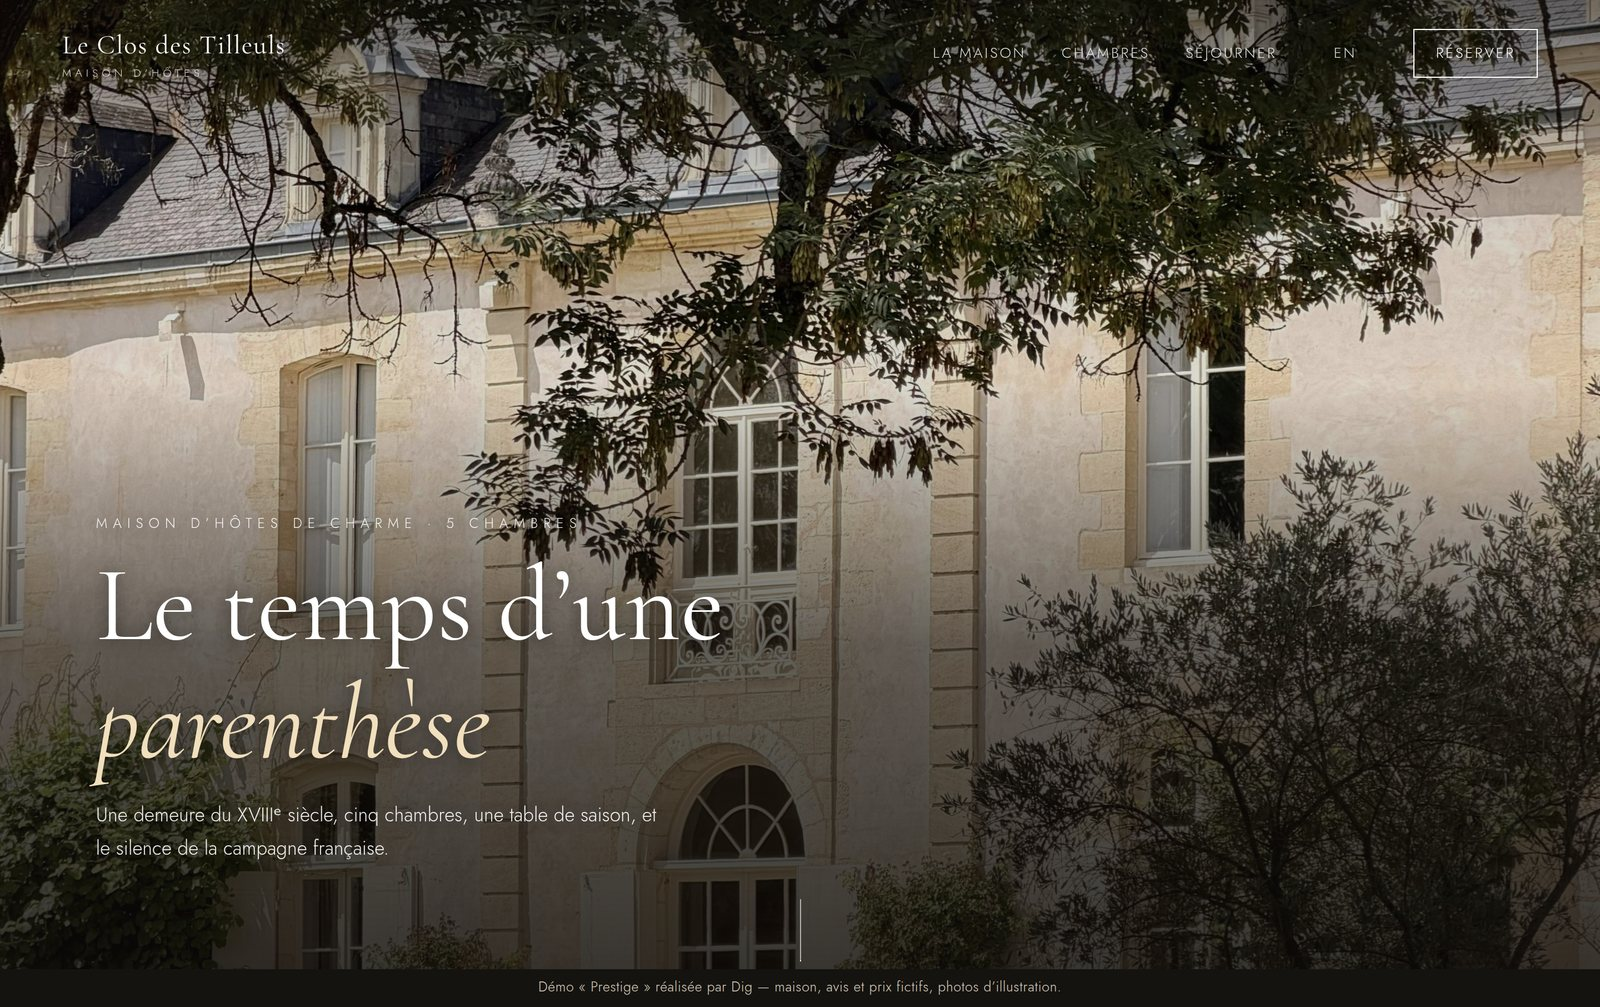
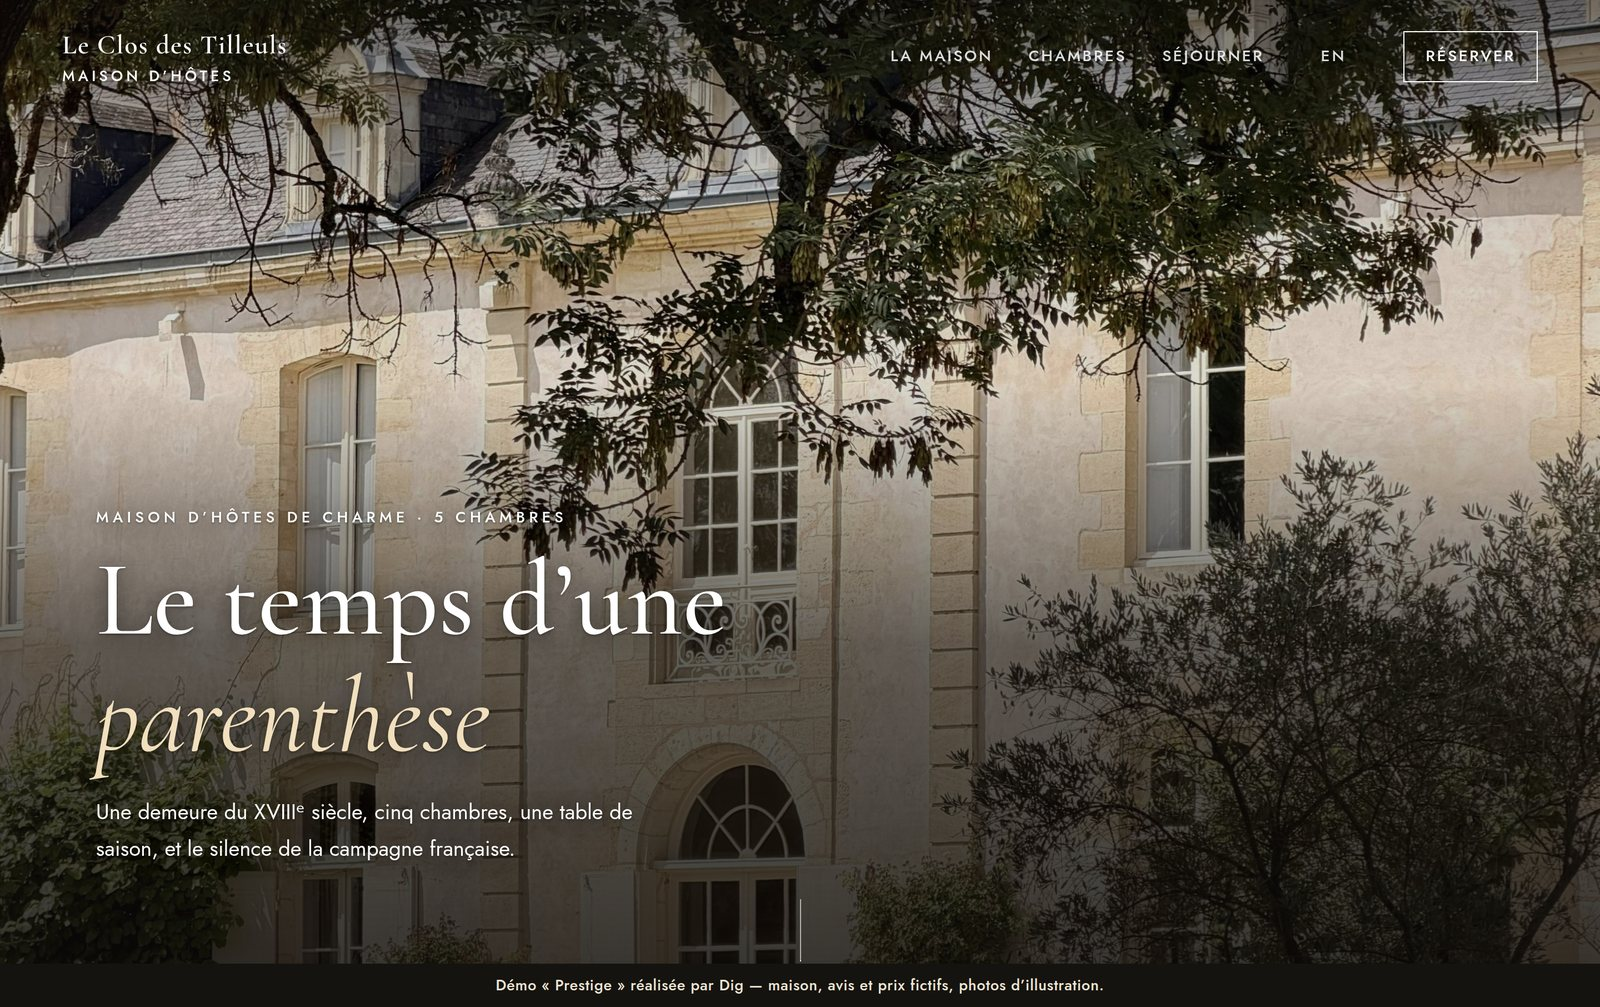
Lisibilité : typographie plus épaisse et plus grande, contrastes conformes (démo Prestige et site)
- démo Prestige : Jost 400 au lieu de 300, textes agrandis, ombres sous les textes sur photo
- site : orange foncé sur fond clair, boutons plus contrastés, libellés agrandis, menu sur une ligne
- outils/lisibilite.py : mesure taille, graisse et contraste de chaque texte
- 44-controle-qualite.md : contrôle de lisibilité ajouté

Claude-Session: https://claude.ai/code/session_01HXUPij67xudweYwrEb9uHq

diff --git a/ai-business-lab/chasse-demande/outils/relais-vercel/api/video.js b/ai-business-lab/chasse-demande/outils/relais-vercel/api/video.js
@@ -6,6 +6,14 @@
 // Déploiement protégé (Vercel Authentication) : appel via le connecteur Vercel.
 import { generateText } from 'ai';
 
+const CONSIGNES = {};
+CONSIGNES.finance =
+  "Résume cette vidéo en français, comme une fiche de connaissances en finances personnelles. Donne : " +
+  "1) le sujet et la thèse principale ; 2) les notions expliquées (définitions simples) ; 3) les chiffres, " +
+  "taux, plafonds et règles fiscales cités, avec l'année ou la date si elle est dite (marque « à vérifier " +
+  "à la source officielle » pour toute règle fiscale ou légale) ; 4) les conseils concrets et leurs limites " +
+  "ou risques ; 5) les produits, applications ou entreprises cités, en signalant s'il s'agit de publicité " +
+  "ou de produits de l'auteur. N'invente rien : si un détail n'est pas clair, écris « non précisé ».";
 const CONSIGNE =
   "Résume cette vidéo en français, pour quelqu'un qui cherche à gagner de l'argent " +
   "légalement avec l'IA et Claude Code. Donne : 1) l'idée principale ; 2) chaque outil, " +
@@ -27,6 +35,9 @@ export async function GET(request) {
   if (!/^[A-Za-z0-9_-]{11}$/.test(id)) {
     return Response.json({ erreur: 'identifiant vidéo invalide' }, { status: 400 });
   }
+  const mode = new URL(request.url).searchParams.get('mode') || '';
+  const consigne = CONSIGNES[mode] || CONSIGNE;
+  const debug = new URL(request.url).searchParams.get('debug') === '1';
   const cle = process.env.GEMINI_API_KEY;
   if (cle) {
     const url = `https://www.youtube.com/watch?v=${id}`;
@@ -37,7 +48,7 @@ export async function GET(request) {
         const rep = await fetch('https://generativelanguage.googleapis.com/v1beta/interactions', {
           method: 'POST',
           headers: { 'x-goog-api-key': cle, 'Content-Type': 'application/json' },
-          body: JSON.stringify({ model: modele, input: [{ type: 'text', text: CONSIGNE }, { type: 'video', uri: url }] }),
+          body: JSON.stringify({ model: modele, input: [{ type: 'text', text: consigne }, { type: 'video', uri: url }] }),
         });
         const j = await rep.json();
         // Le texte peut être dans output_text ou dans outputs[] (objets imbriqués) : on le cherche partout.
@@ -50,6 +61,7 @@ export async function GET(request) {
         parcourir({ output_text: j.output_text, outputs: j.outputs, output: j.output }, '');
         const texte = [...new Set(morceaux)].join('\n').trim();
         if (rep.ok && texte) return Response.json({ id, resume: texte, modele, voie: 'interactions' });
+        if (debug) { const { usage, ...reste } = j; return Response.json({ id, debug: JSON.stringify(reste).slice(0, 4000) }); }
         erreurs.push(`${modele} interactions ${rep.status} ${JSON.stringify(j).slice(0, 200)}`);
       } catch (e) { erreurs.push(`${modele} interactions ${String(e).slice(0, 120)}`); }
       // API classique generateContent
@@ -57,7 +69,7 @@ export async function GET(request) {
         const rep = await fetch(`https://generativelanguage.googleapis.com/v1beta/models/${modele}:generateContent`, {
           method: 'POST',
           headers: { 'x-goog-api-key': cle, 'Content-Type': 'application/json' },
-          body: JSON.stringify({ contents: [{ parts: [{ file_data: { file_uri: url } }, { text: CONSIGNE }] }] }),
+          body: JSON.stringify({ contents: [{ parts: [{ file_data: { file_uri: url } }, { text: consigne }] }] }),
         });
         const j = await rep.json();
         const texte = ((j.candidates || [])[0]?.content?.parts || []).map(p => p.text || '').join('').trim();
@@ -74,7 +86,7 @@ export async function GET(request) {
         role: 'user',
         content: [
           { type: 'file', data: new URL(`https://www.youtube.com/watch?v=${id}`), mediaType: 'video/mp4' },
-          { type: 'text', text: CONSIGNE },
+          { type: 'text', text: consigne },
         ],
       }],
     });

diff --git a/ai-business-lab/chasse-demande/site-dig/index.html b/ai-business-lab/chasse-demande/site-dig/index.html
@@ -163,6 +163,24 @@ footer .cadre{display:flex;justify-content:space-between;gap:1rem;flex-wrap:wrap
  .mobile-cta.cache{opacity:0;transform:translateY(24px);pointer-events:none}
 }
 @media (max-width:560px){.options span{border-radius:14px;width:100%;text-align:left}.prix,.g4{grid-template-columns:1fr}.confiance{gap:1rem}}
+
+/* lisibilité (révision du 26/09) : tailles minimales et contrastes conformes */
+.pastille{font-size:.86rem}
+.logo small{font-size:.8rem;letter-spacing:.14em;color:#c9cfe6}
+.titre .sur,.formule .nom,.tarif .nom{font-size:.86rem}
+.clair .titre .sur,.clair .formule:not(.vedette) .nom,.clair .tarif .nom,.clair .sur{color:#b4460f}
+.btn.principal,.badge{background:linear-gradient(135deg,#c24a12,#b8325a)}
+.badge{font-size:.82rem}
+.comparatif th{font-size:.82rem;color:#4a4752}
+.logo small{font-size:.84rem}
+.demo a{color:#b4460f}
+.clair .faq h3,.faq h3{color:#b4460f}
+.coord small{font-size:.84rem}
+.rgpd{font-size:.88rem}
+.logo small{white-space:nowrap;letter-spacing:.08em}
+.liens .btn{white-space:nowrap}
+@media (max-width:420px){.liens .btn{padding:.7rem .95rem;font-size:.92rem}.logo b{font-size:1.35rem}}
+@media (max-width:350px){.logo small{font-size:.74rem;letter-spacing:.04em}.liens .btn{padding:.65rem .75rem;font-size:.86rem}}
 </style>
 </head>
 <body>
@@ -226,7 +244,7 @@ footer .cadre{display:flex;justify-content:space-between;gap:1rem;flex-wrap:wrap
    <ul><li>Site 5 pages livré</li><li>À vous pour toujours</li><li>Hébergement et suivi : 15 €/mois, facultatif</li><li>Fichiers remis sur demande</li></ul><a href="#contact" class="btn second" style="color:var(--texte);border-color:#ddd">Choisir Achat</a></div>
  </div>
  <div class="options apparait"><span>📅 <b>Réservation en ligne incluse</b>&nbsp;: vos clients réservent un créneau directement sur votre site</span><span>🇬🇧 <b>Version anglaise</b>&nbsp;: +5&nbsp;€/mois</span><span>🔄 <b>Vous changez de prestataire&nbsp;?</b> Je m’occupe du transfert, sans coupure&nbsp;: offert</span></div>
- <div class="prestige apparait"><div><div class="sur" style="color:var(--orange);font-size:.8rem;font-weight:700;letter-spacing:.2em;text-transform:uppercase">Prestige</div><h3 class="serif" style="font-size:1.9rem;margin:.4rem 0">Pour les maisons d’exception</h3><p>Hôtels, restaurants, domaines, artisans d’art&nbsp;: un site entièrement sur mesure, photos plein écran, version anglaise et réservation incluses. <b style="color:#fff">1&nbsp;990&nbsp;€ une fois, ou 199&nbsp;€/mois sans frais de création.</b></p></div><a href="prestige.html" class="btn principal">Découvrir Prestige</a></div>
+ <div class="prestige apparait"><div><div class="sur" style="color:var(--orange);font-size:.86rem;font-weight:700;letter-spacing:.2em;text-transform:uppercase">Prestige</div><h3 class="serif" style="font-size:1.9rem;margin:.4rem 0">Pour les maisons d’exception</h3><p>Hôtels, restaurants, domaines, artisans d’art&nbsp;: un site entièrement sur mesure, photos plein écran, version anglaise et réservation incluses. <b style="color:#fff">1&nbsp;990&nbsp;€ une fois, ou 199&nbsp;€/mois sans frais de création.</b></p></div><a href="prestige.html" class="btn principal">Découvrir Prestige</a></div>
  <p class="note">Prix nets : TVA non applicable, art. 293 B du CGI. Nom de domaine au nom du client, à sa charge (environ 10 € par an). Les formules mensuelles comportent un engagement minimal de 6 mois (12 mois pour Prestige).</p>
 </div></section>
 

diff --git a/ai-business-lab/chasse-demande/outils/relais-vercel/api/chaine.js b/ai-business-lab/chasse-demande/outils/relais-vercel/api/chaine.js
@@ -1,0 +1,51 @@
+// Liste toutes les vidéos publiques d'une chaîne YouTube (identifiant, titre,
+// durée), depuis Vercel car YouTube bloque les conteneurs cloud de Claude Code.
+// Paramètre ?chaine=@nom. Pages suivantes via l'API interne « browse » de YouTube.
+
+function adresseProtegee(request) {
+  const hote = new URL(request.url).hostname;
+  return hote.endsWith('-justok1.vercel.app');
+}
+
+const UA = { 'User-Agent': 'Mozilla/5.0', 'Accept-Language': 'fr-FR,fr;q=0.9' };
+
+function extraire(obj, videos, suite) {
+  if (Array.isArray(obj)) { obj.forEach((x) => extraire(x, videos, suite)); return; }
+  if (!obj || typeof obj !== 'object') return;
+  const v = obj.playlistVideoRenderer || obj.videoRenderer;
+  if (v && v.videoId) {
+    const titre = (v.title && (v.title.simpleText || (v.title.runs || []).map((r) => r.text).join(''))) || '';
+    const duree = (v.lengthText && (v.lengthText.simpleText || (v.lengthText.runs || []).map((r) => r.text).join(''))) || v.lengthSeconds || '';
+    videos.push({ id: v.videoId, titre, duree });
+  }
+  if (obj.continuationCommand && obj.continuationCommand.token) suite.push(obj.continuationCommand.token);
+  for (const x of Object.values(obj)) extraire(x, videos, suite);
+}
+
+export async function GET(request) {
+  if (!adresseProtegee(request)) return new Response('Accès refusé', { status: 403 });
+  const chaine = new URL(request.url).searchParams.get('chaine') || '';
+  if (!/^@[A-Za-z0-9._-]{2,60}$/.test(chaine)) return Response.json({ erreur: 'chaîne invalide' }, { status: 400 });
+  const page = await (await fetch(`https://www.youtube.com/${chaine}/videos?hl=fr`, { headers: UA })).text();
+  const idChaine = (page.match(/"externalId":"(UC[A-Za-z0-9_-]{22})"/) || [])[1];
+  const cleApi = (page.match(/"INNERTUBE_API_KEY":"([^"]+)"/) || [])[1];
+  const version = (page.match(/"INNERTUBE_CLIENT_VERSION":"([^"]+)"/) || [])[1] || '2.20260901.00.00';
+  if (!idChaine) return Response.json({ erreur: 'identifiant de chaîne introuvable', debut: page.slice(0, 300) }, { status: 502 });
+  const liste = 'UU' + idChaine.slice(2);
+  const html = await (await fetch(`https://www.youtube.com/playlist?list=${liste}&hl=fr`, { headers: UA })).text();
+  const m = html.match(/var ytInitialData = (\{.*?\});<\/script>/s);
+  const videos = []; let suite = [];
+  if (m) extraire(JSON.parse(m[1]), videos, suite);
+  let tours = 0;
+  while (suite.length && tours < 60 && cleApi) {
+    const jeton = suite.shift(); tours++;
+    const r = await fetch(`https://www.youtube.com/youtubei/v1/browse?key=${cleApi}&prettyPrint=false`, {
+      method: 'POST', headers: { ...UA, 'Content-Type': 'application/json' },
+      body: JSON.stringify({ context: { client: { clientName: 'WEB', clientVersion: version, hl: 'fr' } }, continuation: jeton }),
+    });
+    const j = await r.json(); const nouvelles = [];
+    extraire(j, videos, nouvelles); suite = nouvelles;
+  }
+  const vus = new Set(); const uniques = videos.filter((v) => !vus.has(v.id) && vus.add(v.id));
+  return Response.json({ chaine, idChaine, nombre: uniques.length, pages: tours + 1, videos: uniques });
+}

diff --git a/ai-business-lab/chasse-demande/site-dig/demos/prestige/index.html b/ai-business-lab/chasse-demande/site-dig/demos/prestige/index.html
@@ -7,12 +7,12 @@
 <meta name="description" content="Démonstration Dig « Prestige » : maison d'hôtes de charme fictive.">
 <meta name="robots" content="noindex">
 <link rel="preconnect" href="https://fonts.googleapis.com">
-<link href="https://fonts.googleapis.com/css2?family=Cormorant+Garamond:ital,wght@0,400;0,500;0,600;1,400&family=Jost:wght@300;400;500&display=swap" rel="stylesheet">
+<link href="https://fonts.googleapis.com/css2?family=Cormorant+Garamond:ital,wght@0,400;0,500;0,600;1,400&family=Jost:wght@400;500;600&display=swap" rel="stylesheet">
 <style>
-:root{--creme:#f6f1e9;--pierre:#e9e0d2;--encre:#26231f;--doux:#6b645a;--sauge:#6f7f68;--or:#b08d57;--nuit:#15130f}
+:root{--creme:#f6f1e9;--pierre:#e9e0d2;--encre:#26231f;--doux:#595349;--sauge:#566650;--or:#b08d57;--nuit:#15130f}
 *{box-sizing:border-box;margin:0;padding:0}
 html{scroll-behavior:smooth}
-body{font-family:Jost,system-ui,sans-serif;font-weight:300;background:var(--creme);color:var(--encre);line-height:1.7;overflow-x:hidden}
+body{font-family:Jost,system-ui,sans-serif;font-weight:400;font-size:1.0625rem;background:var(--creme);color:var(--encre);line-height:1.7;overflow-x:hidden}
 h1,h2,h3,.serif{font-family:"Cormorant Garamond",Georgia,serif;font-weight:500;line-height:1.1}
 a{color:inherit;text-decoration:none}
 img{display:block;width:100%;height:100%;object-fit:cover}
@@ -110,6 +110,34 @@ footer{background:var(--nuit);color:#8d8474;border-top:1px solid rgba(255,255,25
  .heros .texte{bottom:calc(9vh + 44px)}
  .fleche{display:none}
 }
+
+/* lisibilité (révision du 26/09) : textes plus épais, plus grands, mieux contrastés */
+.bandeau{font-size:.85rem;font-weight:500;color:#efe6d6;padding:.5rem 1rem}
+.marque{font-weight:600}
+.marque small{font-size:.84rem;font-weight:500;letter-spacing:.22em;opacity:1}
+.liste .n{color:#86652f}
+.liens{font-size:.88rem;font-weight:500;letter-spacing:.12em}
+.sur{font-size:.85rem;font-weight:500;letter-spacing:.26em;opacity:1}
+.heros h1{font-weight:500}
+.heros p{font-size:1.2rem;font-weight:400;opacity:1}
+.heros .texte{text-shadow:0 1px 2px rgba(0,0,0,.35),0 2px 18px rgba(0,0,0,.55)}
+nav:not(.plein){text-shadow:0 1px 2px rgba(0,0,0,.4),0 2px 16px rgba(0,0,0,.5)}
+.intro p,.titre p{font-size:1.08rem}
+.chiffres span{font-size:.82rem;font-weight:500}
+.chambre .info{font-size:.98rem}
+.bande blockquote{font-weight:500;text-shadow:0 2px 18px rgba(0,0,0,.45)}
+.bande cite{font-size:.85rem;font-weight:500;opacity:1}
+.liste p{font-size:1rem}
+label{font-size:.85rem;font-weight:500;color:#d8cdb9}
+button{font-size:.88rem;font-weight:600}
+.note{font-size:.92rem}
+footer{font-size:.9rem;color:#b3a996}
+@media (max-width:560px){
+ .heros .sur{font-size:.85rem;letter-spacing:.1em}
+ .heros p{font-size:1.08rem}
+ .marque small{font-size:.82rem;letter-spacing:.14em;white-space:nowrap}
+}
+@media (max-width:370px),(max-height:700px){.marque small{font-size:.82rem;letter-spacing:.08em}.heros p{font-size:1.02rem}}
 </style>
 </head>
 <body>

diff --git a/ai-business-lab/chasse-demande/site-dig/prestige.html b/ai-business-lab/chasse-demande/site-dig/prestige.html
@@ -203,6 +203,24 @@ footer .cadre{display:flex;justify-content:space-between;gap:1rem;flex-wrap:wrap
 .pfin h2{font-size:clamp(2rem,4vw,3rem);margin:.6rem 0 1rem}
 @media (max-width:900px){.inclus{grid-template-columns:minmax(0,1fr) minmax(0,1fr)}.etapes4{grid-template-columns:minmax(0,1fr) minmax(0,1fr)}.vitrine{grid-template-columns:minmax(0,1fr)}}
 @media (max-width:640px){.tarifs,.inclus,.etapes4{grid-template-columns:minmax(0,1fr)}.pheros{min-height:auto;padding-top:120px}.comparatif{font-size:.9rem}.comparatif th,.comparatif td{padding:11px 10px}}
+
+/* lisibilité (révision du 26/09) : tailles minimales et contrastes conformes */
+.pastille{font-size:.86rem}
+.logo small{font-size:.8rem;letter-spacing:.14em;color:#c9cfe6}
+.titre .sur,.formule .nom,.tarif .nom{font-size:.86rem}
+.clair .titre .sur,.clair .formule:not(.vedette) .nom,.clair .tarif .nom,.clair .sur{color:#b4460f}
+.btn.principal,.badge{background:linear-gradient(135deg,#c24a12,#b8325a)}
+.badge{font-size:.82rem}
+.comparatif th{font-size:.82rem;color:#4a4752}
+.logo small{font-size:.84rem}
+.demo a{color:#b4460f}
+.clair .faq h3,.faq h3{color:#b4460f}
+.coord small{font-size:.84rem}
+.rgpd{font-size:.88rem}
+.logo small{white-space:nowrap;letter-spacing:.08em}
+.liens .btn{white-space:nowrap}
+@media (max-width:420px){.liens .btn{padding:.7rem .95rem;font-size:.92rem}.logo b{font-size:1.35rem}}
+@media (max-width:350px){.logo small{font-size:.74rem;letter-spacing:.04em}.liens .btn{padding:.65rem .75rem;font-size:.86rem}}
 </style>
 </head>
 <body>

diff --git a/ai-business-lab/chasse-demande/outils/lisibilite.py b/ai-business-lab/chasse-demande/outils/lisibilite.py
@@ -1,0 +1,20 @@
+# Mesure la lisibilité de chaque texte visible : taille >= 13 px, graisse >= 400, contraste >= 4,5 (3 si >= 24 px),
+# ombre portée pour les textes posés sur photo. Usage : python3 lisibilite.py page.html [".selecteur-photo"]
+import os,sys
+from playwright.sync_api import sync_playwright
+JS="""(PHOTO)=>{function lum(c){const m=c.match(/[\\d.]+/g).map(Number);const [r,g,b]=m.slice(0,3).map(v=>{v/=255;return v<=0.03928?v/12.92:Math.pow((v+0.055)/1.055,2.4)});return 0.2126*r+0.7152*g+0.0722*b}
+function bg(e){while(e){const c=getComputedStyle(e);if(c.backgroundImage!=='none'&&!c.backgroundImage.includes('gradient'))return null;const m=c.backgroundColor.match(/[\\d.]+/g);if(m&&(m.length<4||+m[3]>0.9))return c.backgroundColor;e=e.parentElement}return 'rgb(255,255,255)'}
+const out=[];const w=document.createTreeWalker(document.body,NodeFilter.SHOW_TEXT);let n;
+while(n=w.nextNode()){const t=n.textContent.trim();if(!t)continue;const e=n.parentElement;const cs=getComputedStyle(e);if(cs.display==='none'||cs.visibility==='hidden')continue;const r=e.getBoundingClientRect();if(!r.width)continue;
+const fs=parseFloat(cs.fontSize),fw=parseInt(cs.fontWeight);const surPhoto=PHOTO?(!!e.closest(PHOTO)||!!e.closest('nav:not(.plein)')):false;const b=surPhoto?null:bg(e);let ct=null;
+if(b){const L1=lum(cs.color),L2=lum(b);ct=(Math.max(L1,L2)+0.05)/(Math.min(L1,L2)+0.05)}
+const pb=[];if(fs<13)pb.push('taille '+fs);if(fw<400)pb.push('graisse '+fw);if(ct!==null&&ct<(fs>=24?3:4.5))pb.push('contraste '+ct.toFixed(2));if(surPhoto&&cs.textShadow==='none')pb.push('sans ombre sur photo');
+if(pb.length)out.push([t.slice(0,40),pb.join(', ')])}
+return out}"""
+with sync_playwright() as p:
+    b=p.chromium.launch(executable_path='/opt/pw-browsers/chromium')
+    for w,h in [(320,640),(390,844),(1440,900)]:
+        pg=b.new_page(viewport={'width':w,'height':h});pg.goto('file://'+os.path.abspath(sys.argv[1]));pg.wait_for_timeout(1200)
+        pg.evaluate("document.querySelectorAll('.apparait').forEach(e=>e.classList.add('vu'))");pg.wait_for_timeout(900)
+        r=pg.evaluate(JS,sys.argv[2] if len(sys.argv)>2 else '');print(w,len(r));[print('  ',x) for x in r[:25]];pg.close()
+    b.close()

diff --git a/ai-business-lab/chasse-demande/outils/qa_site.py b/ai-business-lab/chasse-demande/outils/qa_site.py
@@ -1,0 +1,22 @@
+import os,sys
+from playwright.sync_api import sync_playwright
+JS="""()=>{const b=document.getElementById('barre');const cs=b?getComputedStyle(b):null;const vis=!!b&&cs.display!=='none'&&!b.classList.contains('cache');
+const br=b?b.getBoundingClientRect():{top:0,bottom:0};const pb=[];
+const tgt=[...document.querySelectorAll('#cta-haut,#form input,#form select,#form textarea,#form button')];
+if(vis){for(const t of tgt){const r=t.getBoundingClientRect();if(r.bottom>br.top&&r.top<br.bottom&&r.bottom>0&&r.top<innerHeight)pb.push(t.name||t.id||t.tagName)}}
+const over=document.documentElement.scrollWidth>innerWidth+1;
+const liens=[...document.querySelectorAll('a[href^="tel:"],a[href^="mailto:"]')].filter(a=>getComputedStyle(a).display!=='none'&&a.getAttribute('href').includes('[')).length;
+const crochets=document.body.innerText.match(/\\[[^\\]]{2,40}\\]/g);
+return {vis,pb,over,liens,crochets}}"""
+bad=0;n=0
+with sync_playwright() as p:
+    b=p.chromium.launch(executable_path='/opt/pw-browsers/chromium')
+    for w,h in [(320,568),(360,740),(390,844),(414,896),(768,1024),(1024,768),(1440,900)]:
+        pg=b.new_page(viewport={'width':w,'height':h});pg.goto('file://'+os.path.abspath(sys.argv[1]));pg.wait_for_timeout(1200)
+        H=pg.evaluate('document.documentElement.scrollHeight')
+        for y in list(range(0,H,150))+[H]:
+            pg.evaluate(f'window.scrollTo(0,{y})');pg.wait_for_timeout(120);m=pg.evaluate(JS);n+=1
+            if m['pb'] or m['over'] or m['liens'] or m['crochets'] or (w>820 and m['vis']): bad+=1;print(w,y,m) if bad<15 else None
+        pg.close()
+    b.close()
+print('états testés',n,'problèmes',bad)

diff --git a/ai-business-lab/chasse-demande/44-controle-qualite.md b/ai-business-lab/chasse-demande/44-controle-qualite.md
@@ -35,6 +35,10 @@ forme ». Rien n'est envoyé tant que chaque case applicable n'est pas cochée.
       définition) ; photo de fond en version haute pour téléphone et large pour
       ordinateur ; vérifiées en gros plan, pas seulement en miniature.
 - [ ] Animations : vérifiées à 0, 25, 50, 75 et 100 % de leur durée.
+- [ ] Lisibilité mesurée (`outils/lisibilite.py`) : aucun texte sous 13 px ni en
+      graisse fine (< 400) ; contraste ≥ 4,5 (≥ 3 au-delà de 24 px) ; ombre portée
+      sous tout texte posé sur une photo. Menu vérifié sur une seule ligne de
+      320 à 1 440 px.
 
 ## Outils
 - Démos : `outils/prospects/verif_maquettes.py`, `qa_maquettes.py`, captures d'écran relues une par une.
